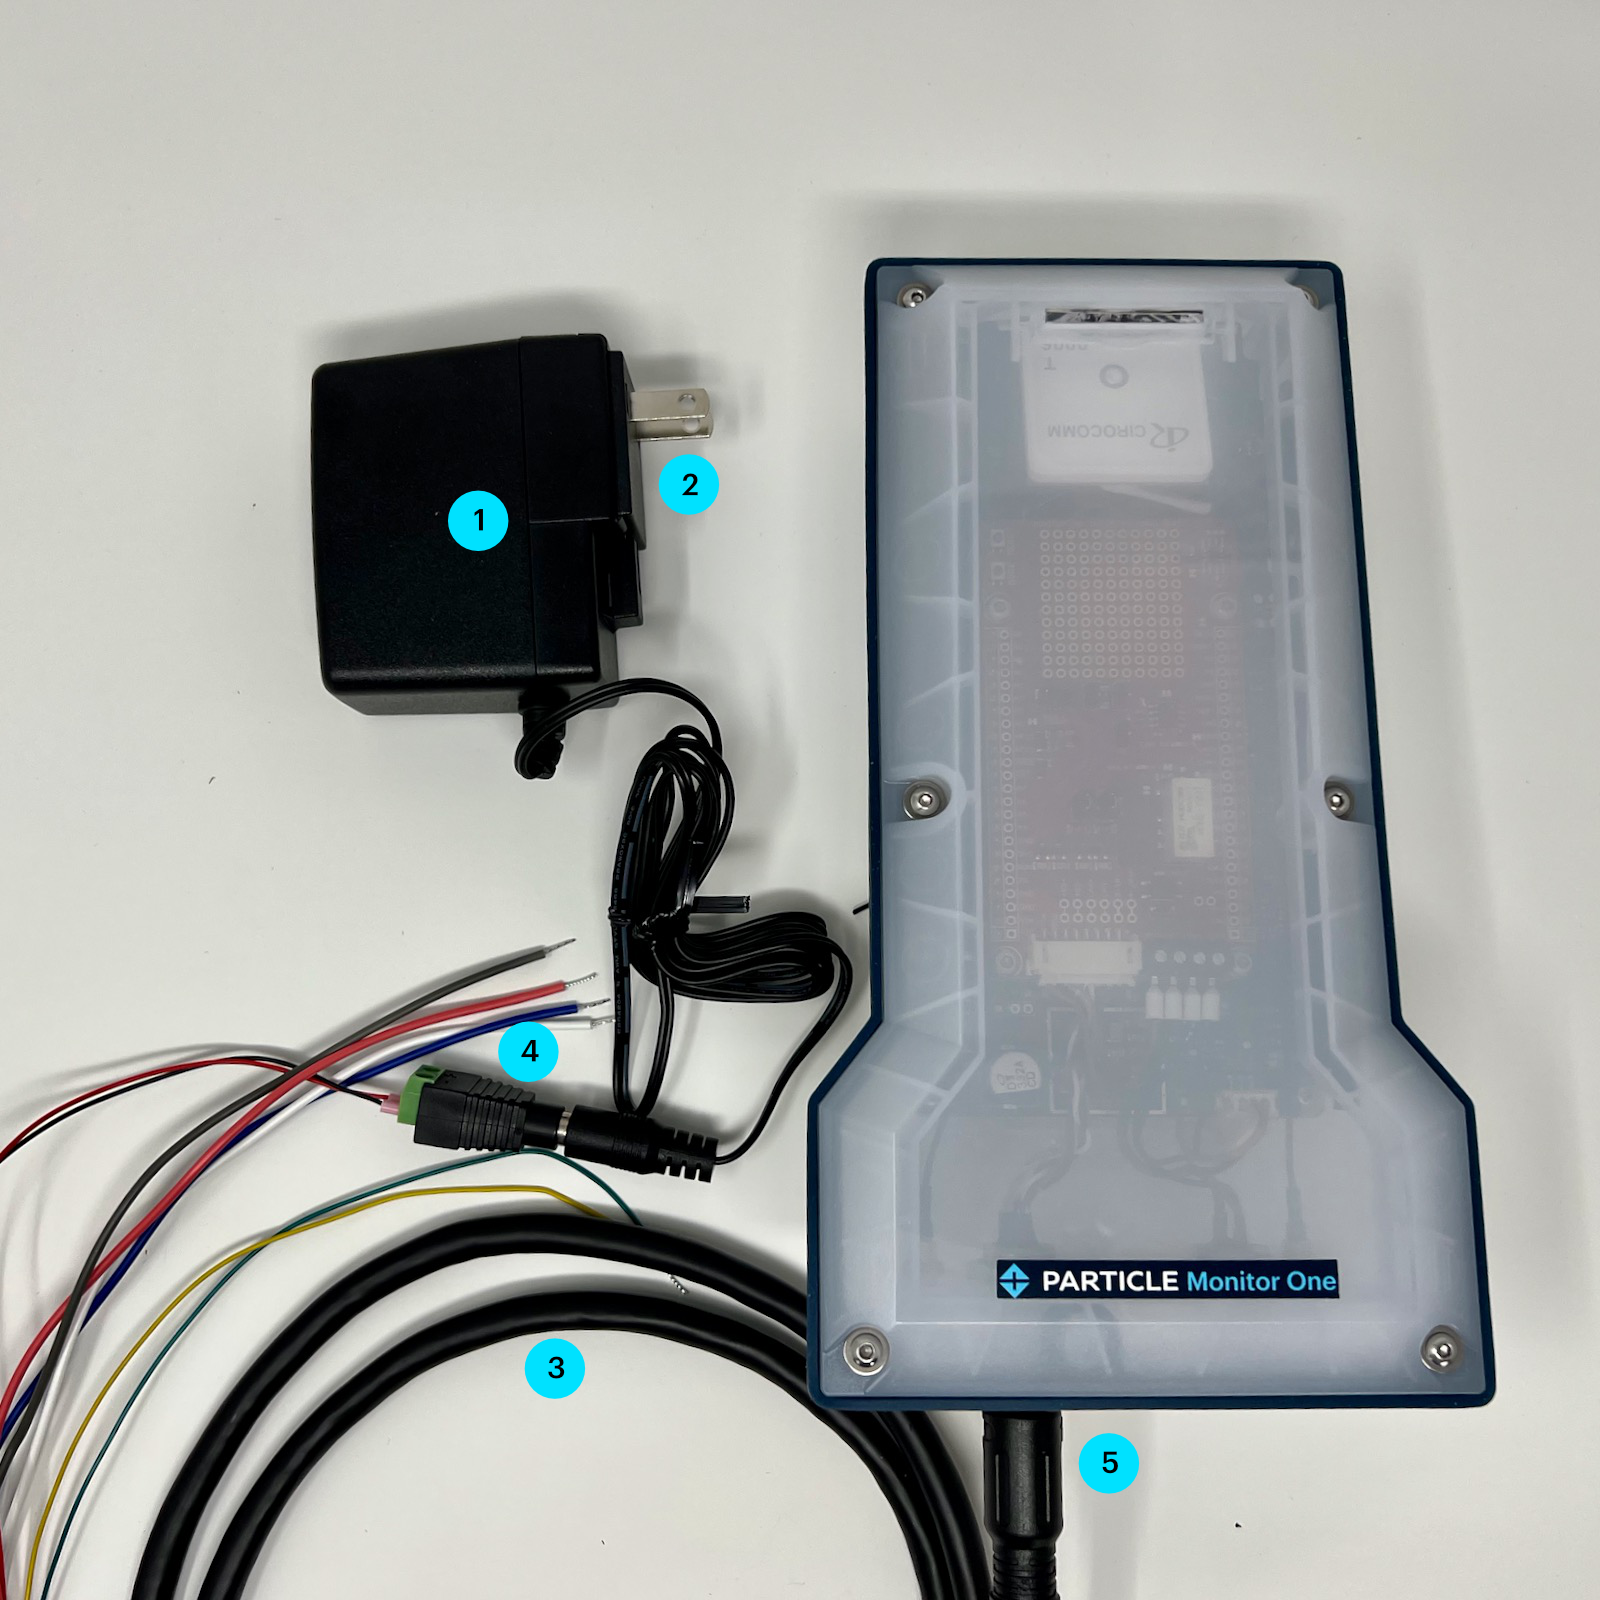
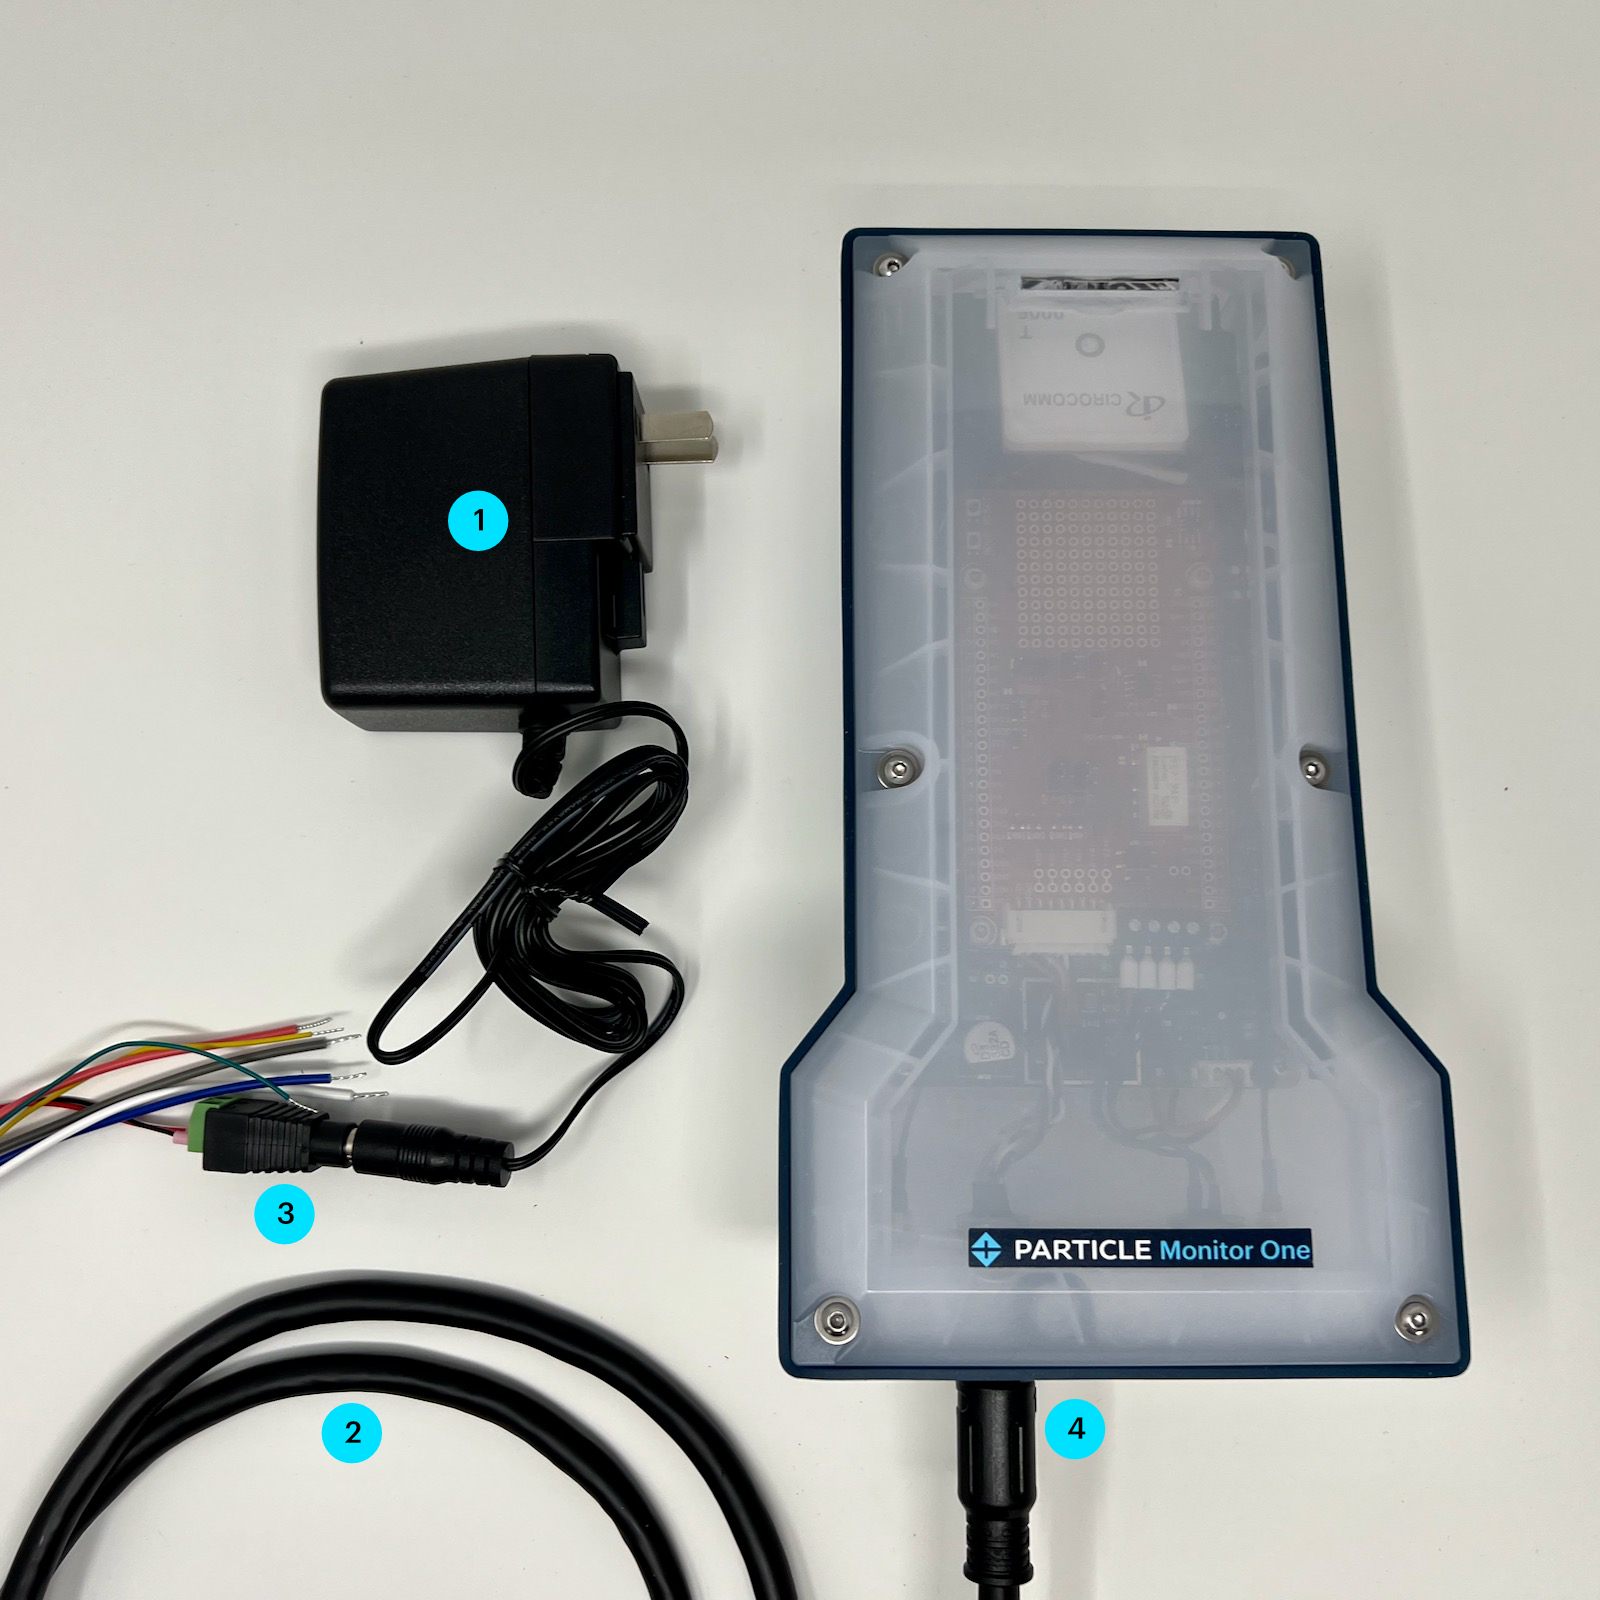
Monitor One power supply change

diff --git a/src/content/quickstart/monitor-one.md b/src/content/quickstart/monitor-one.md
@@ -31,11 +31,9 @@ There is also an M12 4-pin connector for expansion. The I/O card uses this conne
 
 ### Power supply
 
-The small rectangular box contains an international power supply with plug adapters. 
+The small rectangular box contains a power supply. 
 
 The DC output is 24 V DC at 1A (24W). The connector is a 5.5x2.1mm barrel plug, center positive.
-
-{{imageOverlay src="/assets/images/monitor-one/power-supply.jpeg" alt="Power supply" class="full-width"}}
 
 ### USB and wrenches
 
@@ -132,25 +130,22 @@ The Monitor One includes a M12 4-pin male to flying leads cable, 1500&plusmn;20m
 
 ## Powering the Monitor One
 
-The Monitor One Developer Edition includes an international 24V 1A (24W) power adapter (1).
+The Monitor One Developer Edition includes a 24V 1A (24W) power adapter (1). Your power adapter may be slightly different.
 
-Attach the appropriate adapter for your location to the adapter (2). The US/Canada adapter is shown in the picture.
+Locate the M12 8-pin cable (2). There are two cables, a 4-pin and an 8-pin, and the 8-pin is used for power.
 
-Locate the M12 8-pin cable (3). There are two cables, a 4-pin and an 8-pin, and the 8-pin is used for power.
+The cable includes a barrel connector adapter (3). Connect the 5.5x2.1mm barrel jack on the power adapter to the barrel connector adapter.
 
-The cable includes a barrel connector adapter (4). Connect the 5.5x2.1mm barrel jack on the power adapter to the barrel connector adapter.
-
-Connect the M12 8-pin connector to the Monitor One. The 8-pin connector is on the left with the label facing up, closest to the cellular SMA connector. Some threads may be exposed even when the connector is fully seated; this is normal and does not affect the IP67 waterproof rating.
+Connect the M12 8-pin connector to the Monitor One (4). The 8-pin connector is on the left with the label facing up, closest to the cellular SMA connector. Some threads may be exposed even when the connector is fully seated; this is normal and does not affect the IP67 waterproof rating.
 
 {{imageOverlay src="/assets/images/monitor-one/with-power-labeled.png" alt="Powering" class="full-width"}}
 
 | Label | Feature |
 | :---: | :--- |
-|  1 | International power supply |
-|  2 | Plug-in adapter |
-|  3 | M12 8-pin to flying leads cable |
-|  4 | Barrel connector adapter |
-|  5 | M12 8-pin connection to Monitor One |
+|  1 | Power supply |
+|  2 | M12 8-pin to flying leads cable |
+|  3 | Barrel connector adapter |
+|  4 | M12 8-pin connection to Monitor One |
 
 If you disconnect and reconnect the barrel connector adapter, make sure the + screw terminal is connected to red and the - screw terminal is connected to black. The power supply barrel connector is center positive.
 
